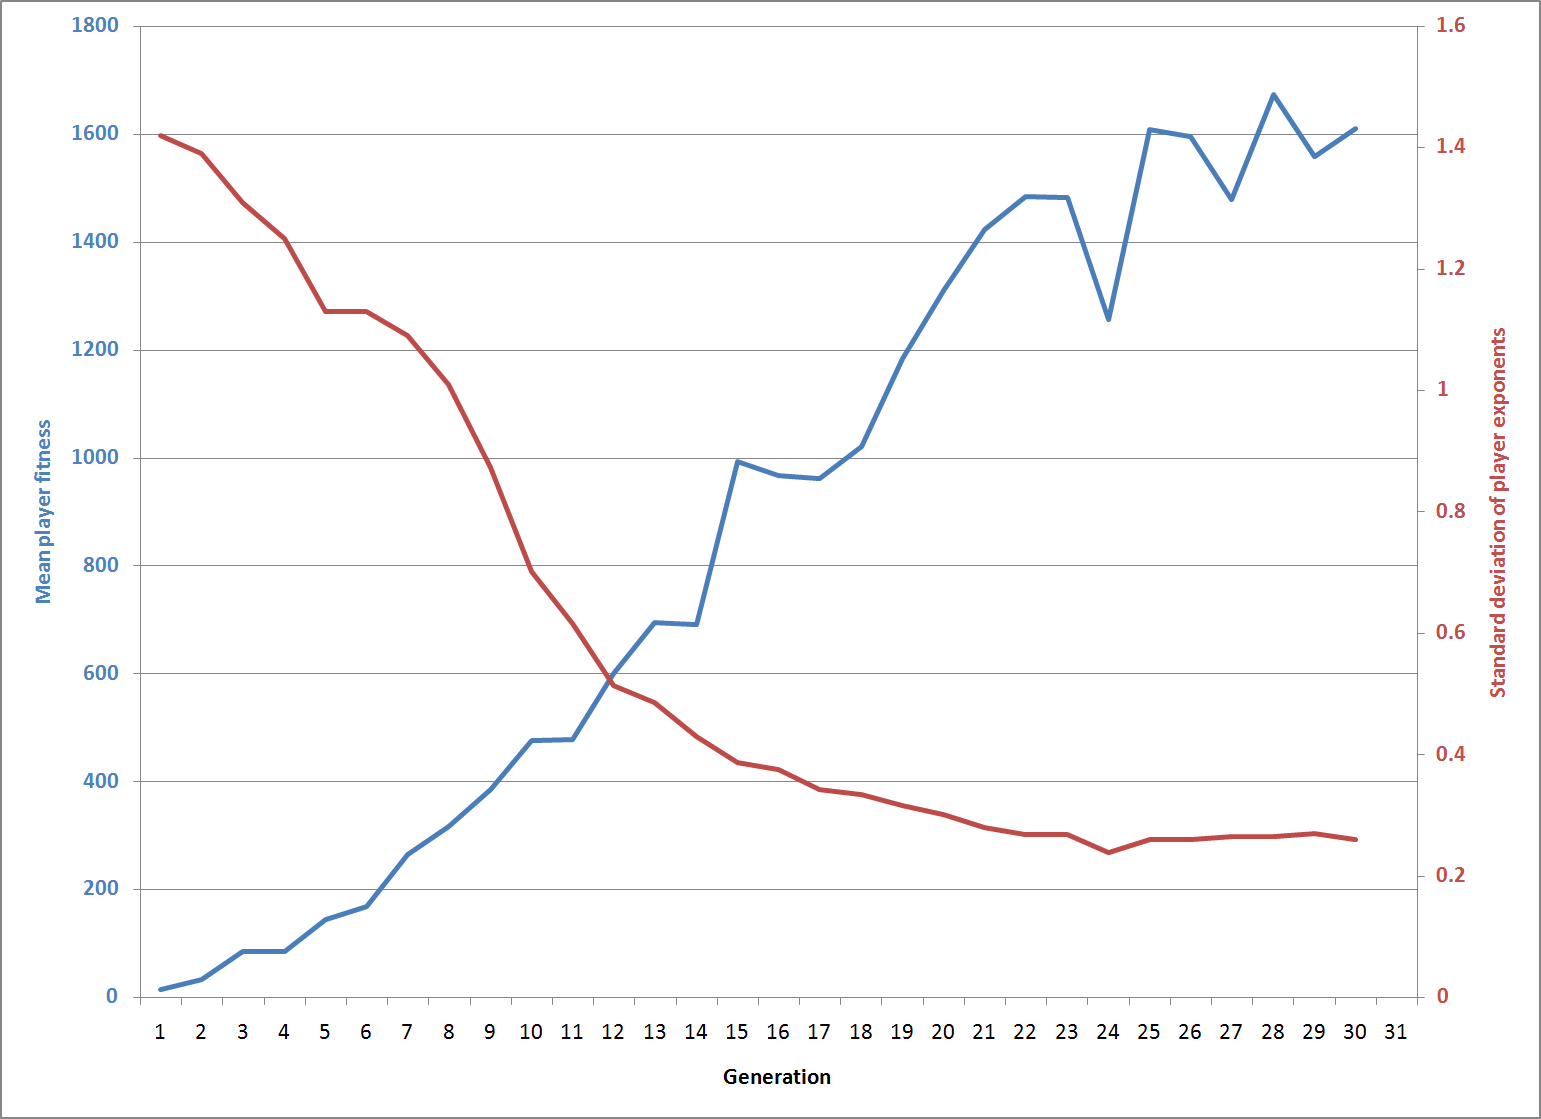
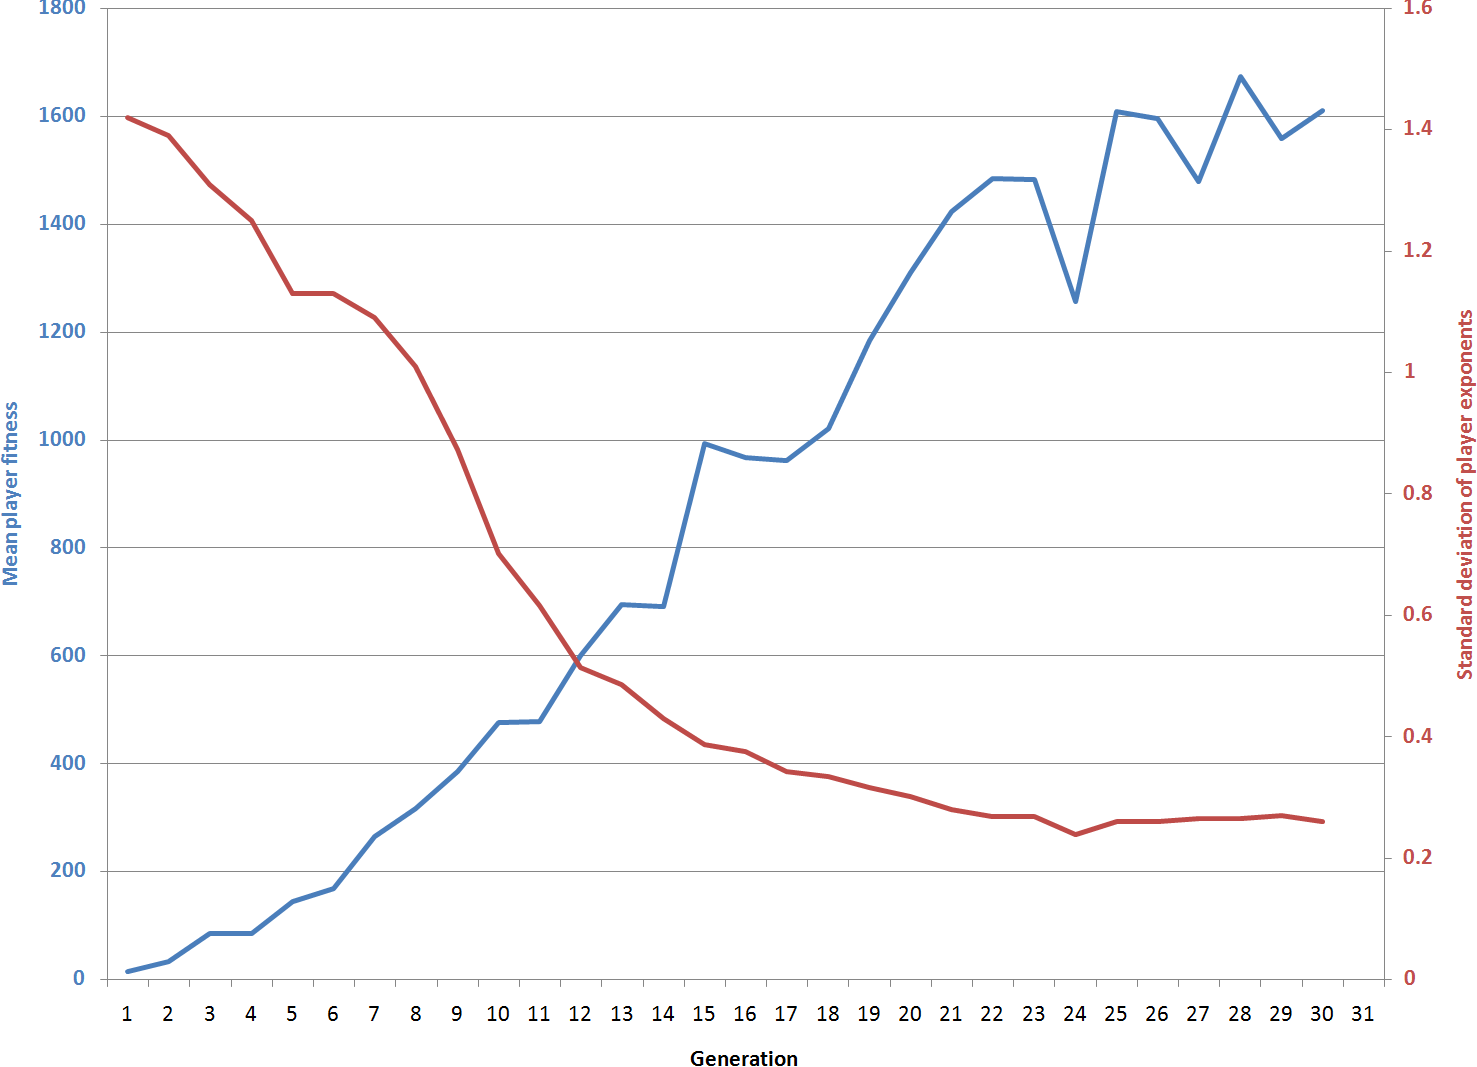
Remove borders from images
git-svn-id: file:///home/david/svn/comp6026@87 ba5342e2-1382-4ac7-b7c6-837a19329574

diff --git a/cw3/report.tex b/cw3/report.tex
@@ -62,6 +62,7 @@ Coevolving an ideal Tetris trainer}
 \section{Technical Improvements}
 
 \subsection{Tetris players}
+\label{players}
 
 The first part of this coursework described an algorithm to evolve a Tetris
 player.
@@ -350,6 +351,94 @@ for 0 $\leq$ i $<$ population.size
 \end{lstlisting}
 
 \section{Results}
+
+\subsection{Technical improvements}
+
+The technical modifications to the Tetris players led to the biggest
+improvements in fitness.
+By the end of the previous coursework the very best Tetris players could place
+around 2-3 thousand blocks over the course of a game.
+After adding the remaining six board rating criteria discussed in Section
+\ref{players} the performance increased by an order of magnitude, and the best
+players were now able to place 20,000 blocks easily, sometimes reaching 50,000
+and above.
+
+Figure \ref{LinearNoCoev} shows how the mean fitness of the player population
+increases over time.
+
+\begin{figure}[h]
+  \label{LinearNoCoev}
+  \centering
+  \includegraphics[width=13cm]{results/linear-no-coev.png}
+  \caption{Mean player fitness over time from 10 different executions.}
+\end{figure}
+
+Adding in the exponential rating function has not been as useful, and actually
+gives worse performance than the linear rating function.
+This is possibly due to larger search space - it is more difficult for the
+algorithm to find a suitable set of parameters.
+
+A comparison of the changes is given in the table below.
+
+\begin{center}
+  \begin{tabular}{l l l l}
+    \hline
+     & Max & Mean & Lowest \\
+    \hline
+    First six board criteria & 2145 & 599 & 128 \\
+    All twelve board criteria & 58382 & 4605 & 108 \\
+    Exponential rating function & 16330 & 2332 & 116 \\
+    
+  \end{tabular}
+\end{center}
+
+\subsection{Population diversity}
+
+Measuring the standard deviation of player chromosomes has revealed some
+interesting results.
+While the diversity of the \emph{weights} chromosome decreases initially, it
+always seems to level off and sometimes increase again at around the
+20-generation point.
+Decreasing diversity is of course expected as the population gains fitness
+because all the initial random low-fitness players are being eliminated.
+However the increase again is curious, and suggests that our mutation rate is
+sufficient (or even too high?) to maintain diversity in the population.
+
+\newcommand{\smallgraphwidth}{7cm}
+\begin{figure}[h]
+  \centering
+  \subfloat[Weights]{\label{stddev-w}\includegraphics[width=\smallgraphwidth]{results/linear-stddev.png}}
+  \qquad
+  \subfloat[Exponents]{\label{stddev-e}\includegraphics[width=\smallgraphwidth]{results/exponential-stddev.png}}
+
+  \caption{Comparing the standard deviation of chromosome values to player
+      fitness.
+      The blue line is player fitness and the red line is standard deviation
+      of the measured chromosome.}
+  \label{stddev}
+\end{figure}
+
+The \emph{exponent} chromosome loses diversity very rapidly, usually ending up
+having a standard deviation of around 0.3.
+Maybe this means a higher mutation rate is required for the exponent values, or
+maybe the diversity needs to be maintained by adding new random individuals
+occasionally.
+
+\subsection{Coevolution}
+
+\newcommand{\smallgraphwidth}{7cm}
+\begin{figure}[h]
+  \centering
+  \subfloat[Weights]{\label{stddev-w}\includegraphics[width=\smallgraphwidth]{results/linear-coev.png}}
+  \qquad
+  \subfloat[Exponents]{\label{stddev-e}\includegraphics[width=\smallgraphwidth]{results/linear-coev-vs-no-coev.png}}
+
+  \caption{Comparing the standard deviation of chromosome values to player
+      fitness.
+      The blue line is player fitness and the red line is standard deviation
+      of the measured chromosome.}
+  \label{stddev}
+\end{figure}
 
 \section{Evaluation}
 
